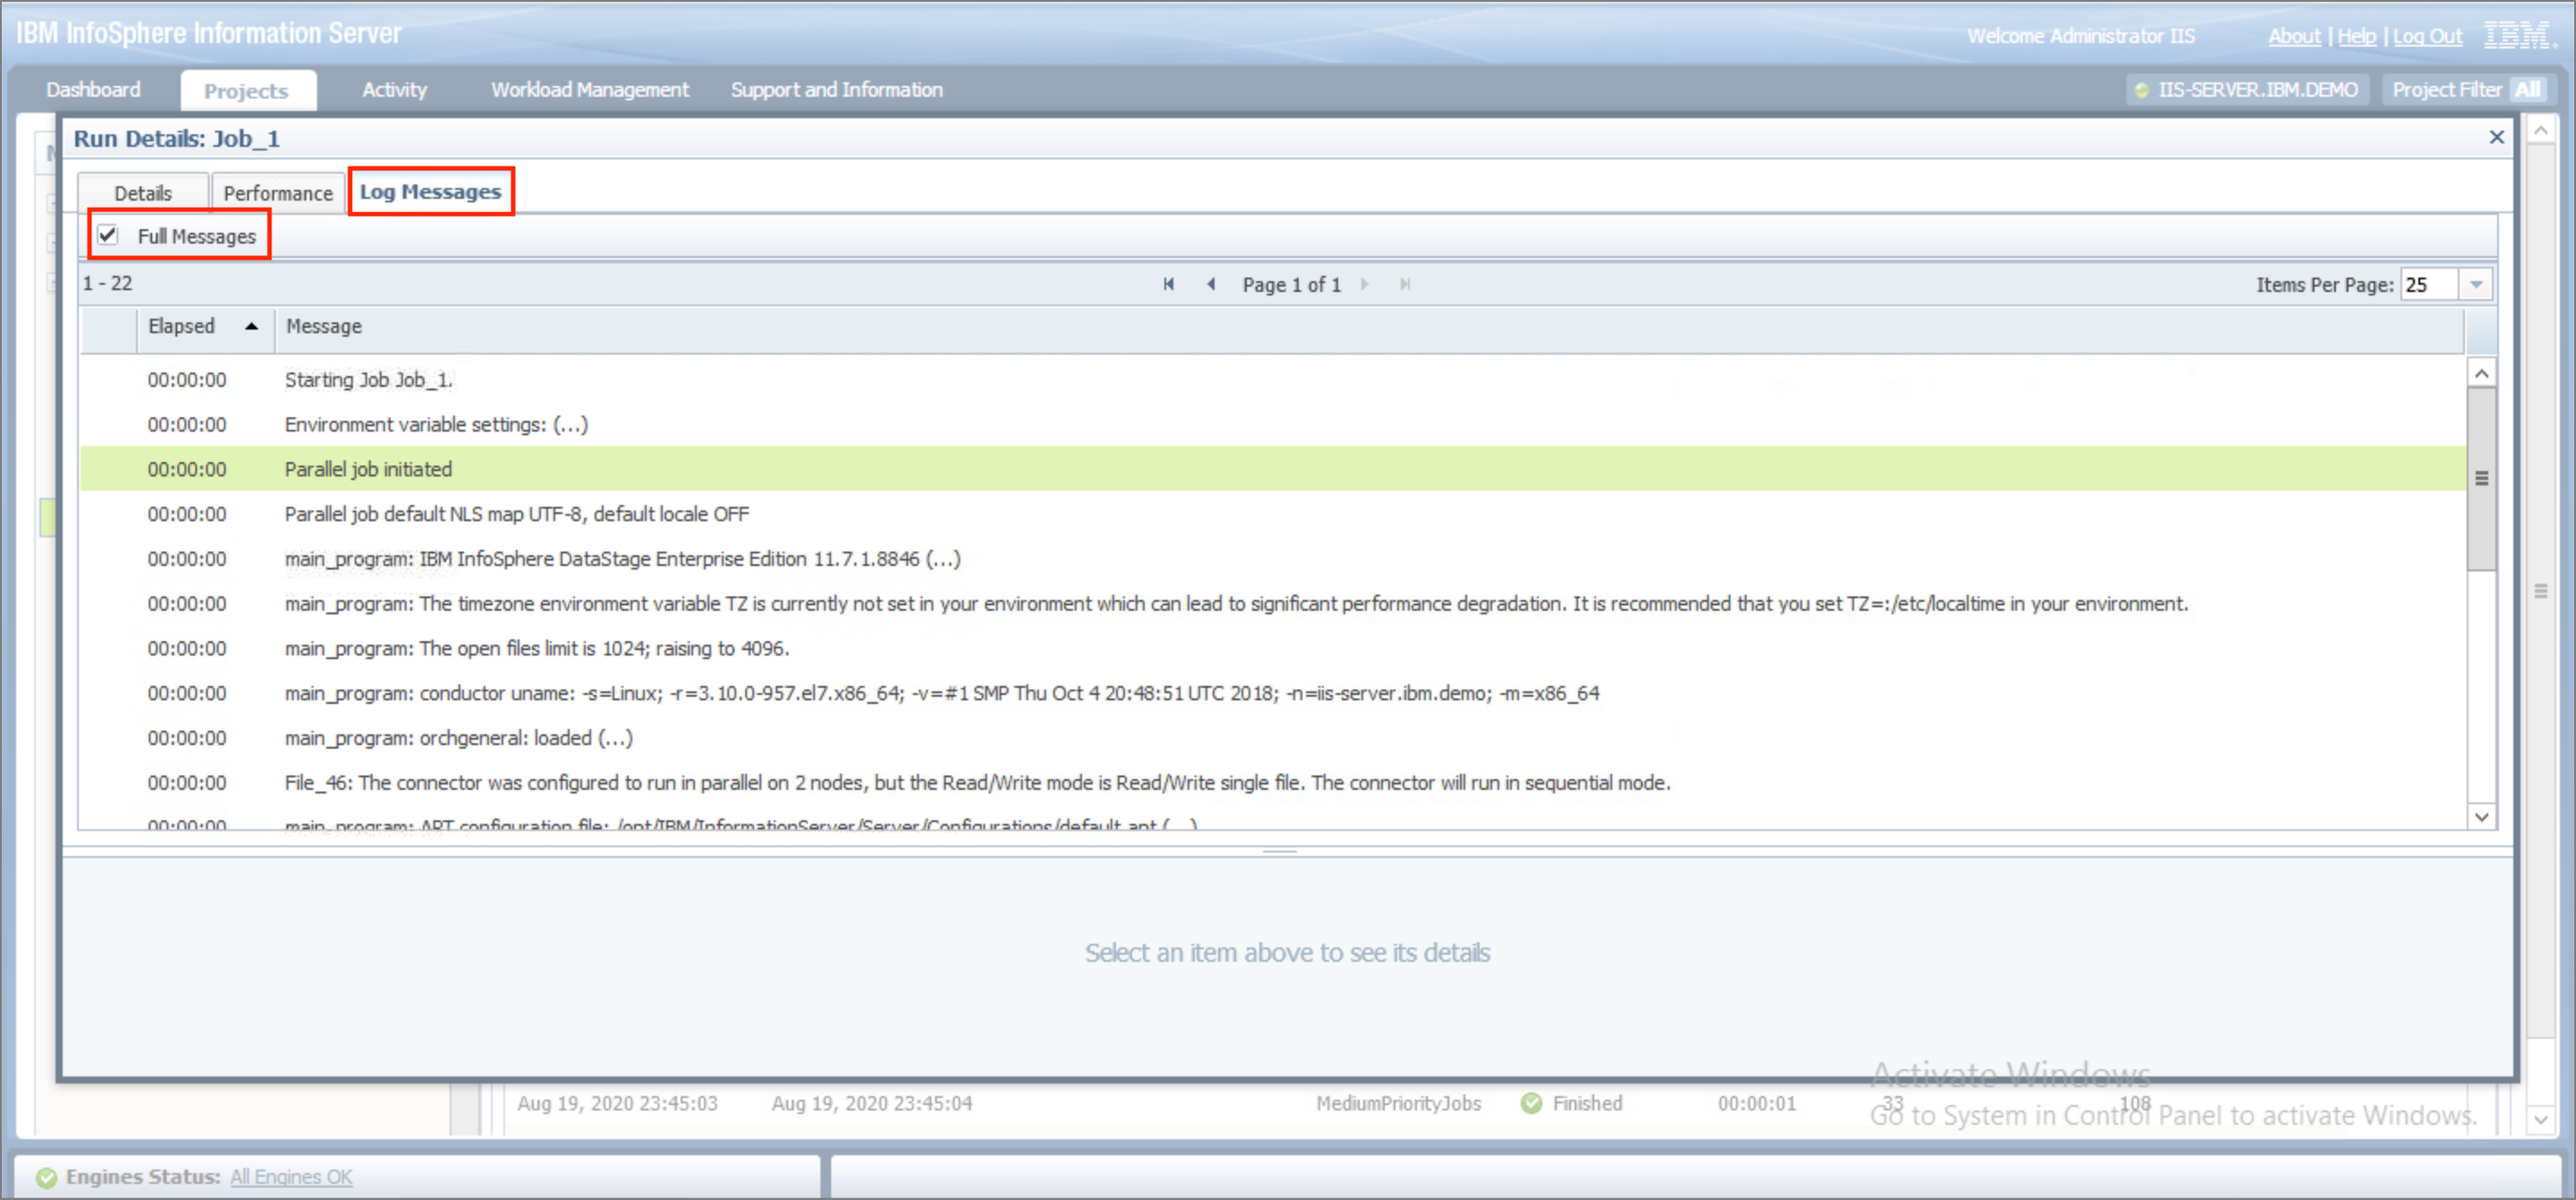
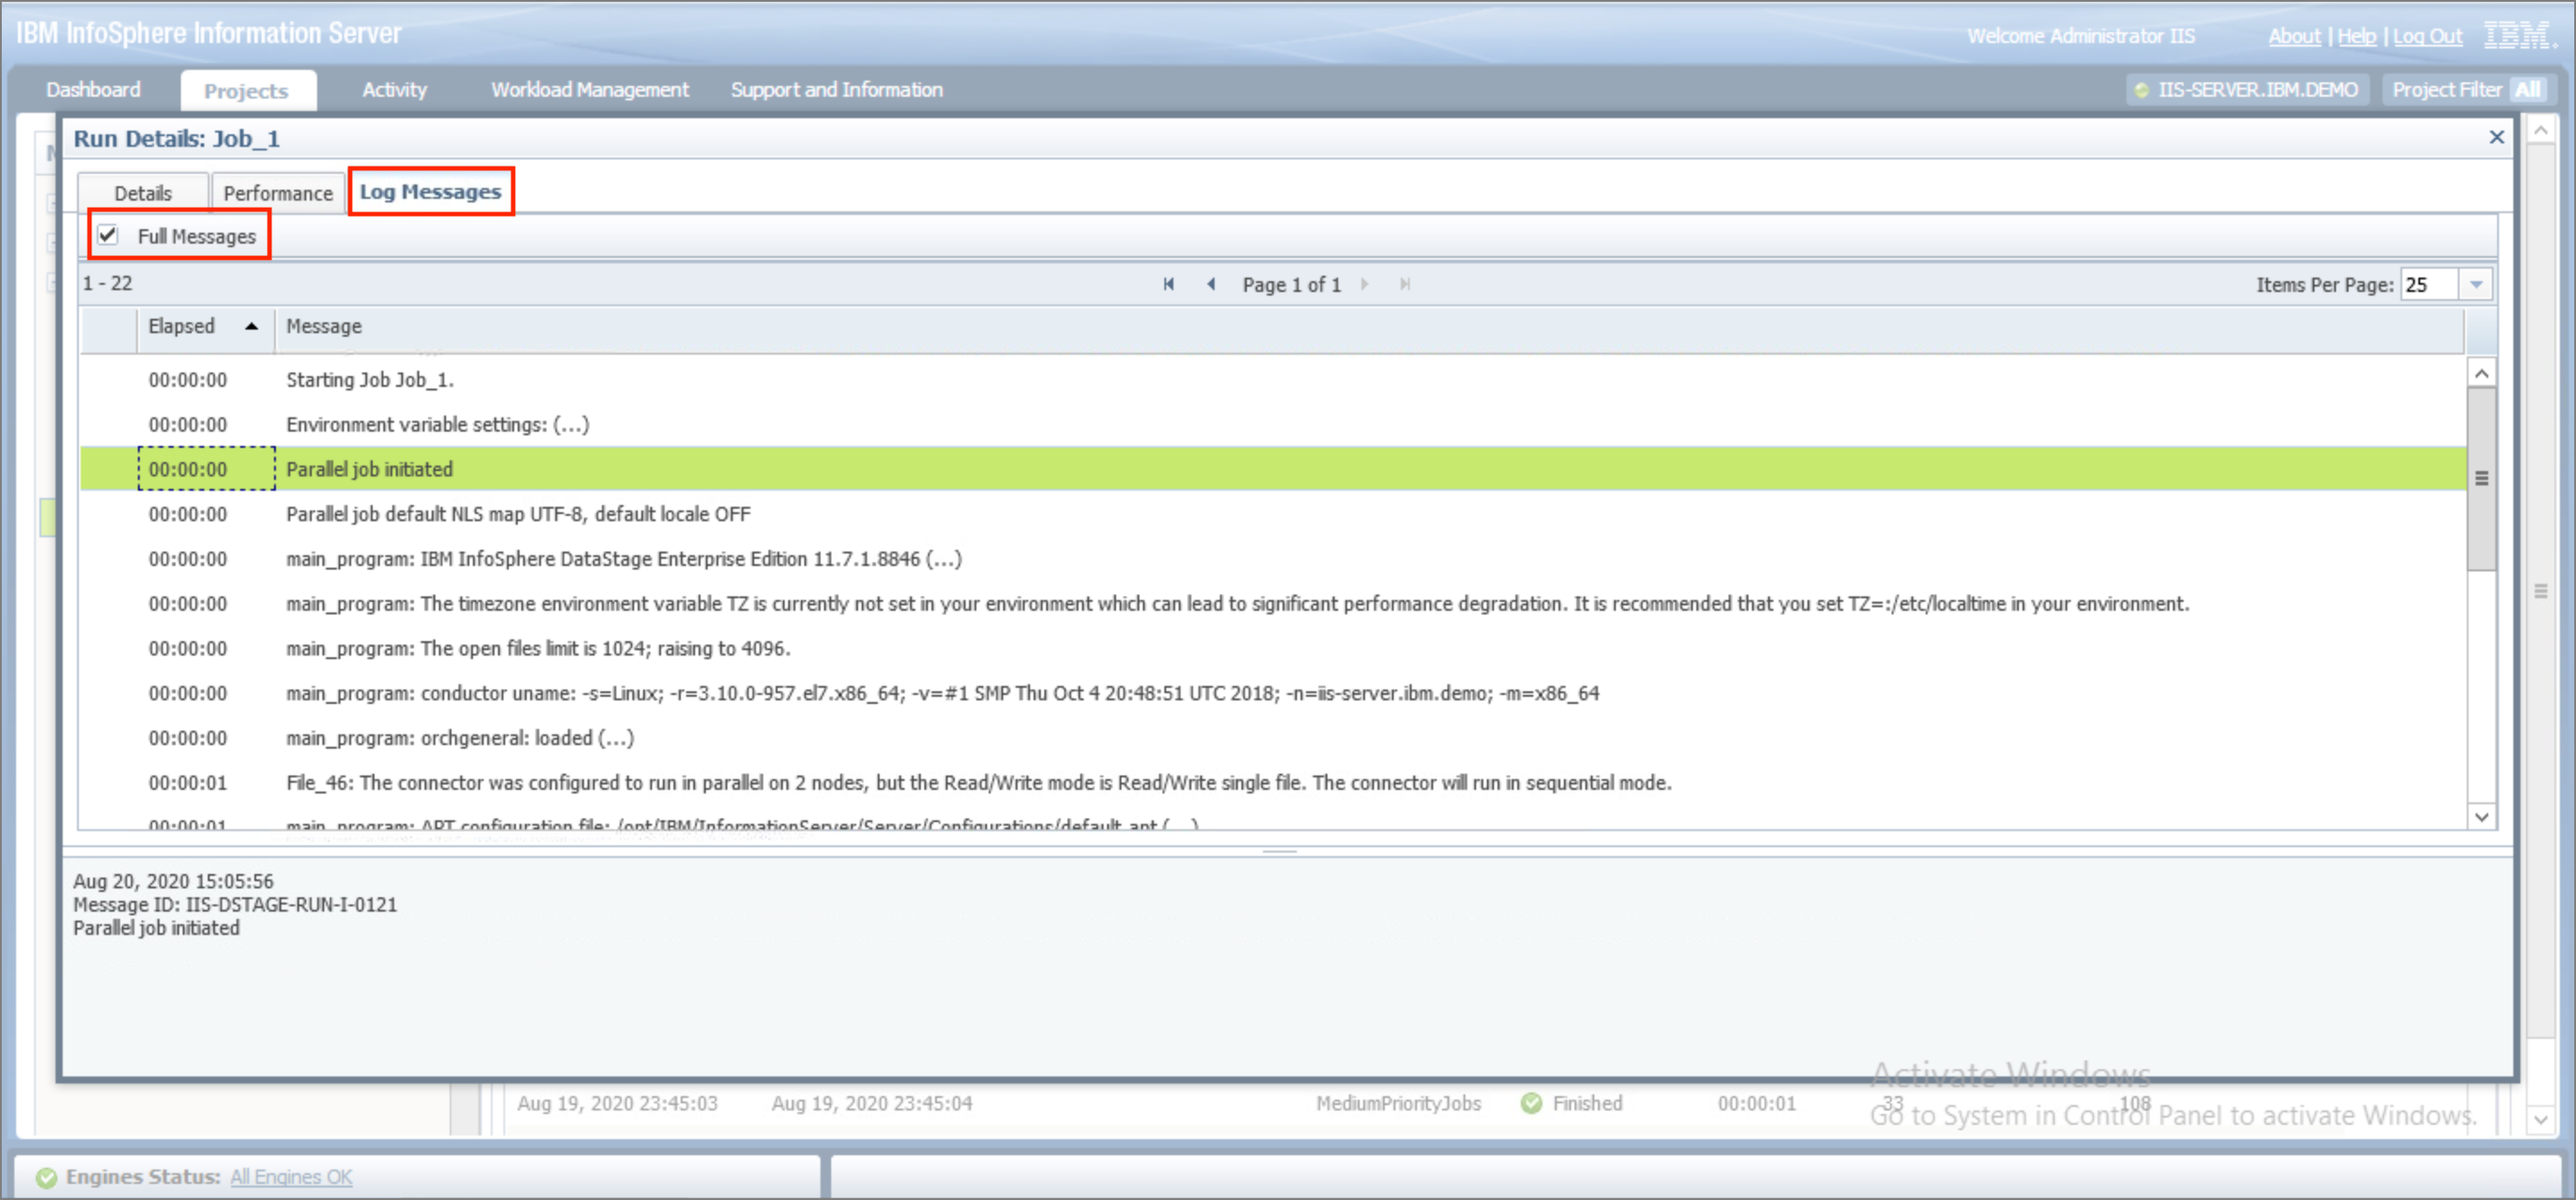
Update lab 1 and 3

diff --git a/workshop/lab-3/README.md b/workshop/lab-3/README.md
@@ -1,13 +1,23 @@
-# Lab 3: DataStage with Db2
+# Lab 3: DataStage with DB2 Warehouse
 
+DataStage Flow Designer enables users to create, edit, load, and run DataStage jobs which can be used to perform integration of data from various sourcs in order to glean meaningful and valuable information.
+
+The purpose of this lab is to design a DataStage job to satisfy the following problem statement:
+
+```ini
 As a data engineer, you have been asked by the Line of Business that you support, to produce a new data file that contains all employees whose total compensation is less than $50,000. The file must also contain the Department Name that the employee works in, and the mean average salary of all employees in that department who earn less than 50,000. In addition, the file must be sorted in descending order, based on the mean average salary amount. Finally, the application that will consume this file, expects the full name of the employee to be in one field, formatted as first, middle initial, last).
+```
 
-**Notes:**
+> **Note:** You can use the ***Peek*** stage to check intermediate results in the job as demonstrated in [Lab 1](/workshop/lab-1/README.md).
 
-> 1. The input tables: `EMP` (containing employee data) and `DEPT` (containing department data) are already loaded in Db2 Warehouse. The connection details are provided in these steps.
-> 2. Table `EMP` uses column `WORKDEPT` and table `DEPT` uses column `DEPTNO` to identify the department number.
-> 3. We'll create the output file in the following directory: `/opt/IBM/InformationServer/Server/Projects/Lab3/`.
-> 4. You can use the ***Peek*** stage to check intermediate results in the job as demonstrated in the previous lab.
+In this lab, you will learn:
+
+* How to create a job in DataStage.
+* How to load data from DB2 Warehouse into DataStage.
+* How to perform transformations such as modifying tables, joining tables, aggregating table data and sorting table data.
+* How to write tabular data from DataStage into a file.
+* How to run jobs.
+* How to view logs for jobs.
 
 This lab is comprised of the following steps:
 
@@ -32,6 +42,8 @@ The project takes a few minutes to be created and once ready, it will be visible
 ![Switch project](images/switch-project.png)
 
 ## 2. Add DB2 connection
+
+The input tables - `EMP` (containing employee data) and `DEPT` (containing department data) - are already loaded in Db2 Warehouse. Let's add this DB2 warehouse instance as a `Connection` in DataStage.
 
 * Click on the `Connections` tab and then click `+ Create` to add a new connection.
 
@@ -60,6 +72,37 @@ A tile for the new connection will now be displayed in the `Connections` tab.
 ![Create parallel job](images/create-parallel-job.png)
 
 A new tab with the name `Job_1*` opens up where you can now start designing the parallel job.
+
+The first step is to load the input tables `DEPT` and `EMP` into DataStage. 
+
+The `DEPT` table contains the following columns:
+
+| Column Name | Data Type | Nullable |
+| - | - | - |
+| DEPTNO | VARCHAR(3) | N |
+| DEPTNAME | VARCHAR(36) | N | 
+| MGRNO | CHAR(6) | Y |
+| ADMRDEPT | CHAR(3) | N |
+| LOCATION | CHAR(16) | Y |
+
+The `EMP` table contains the following columns:
+
+| Column Name | Data Type | Nullable |
+| - | - | - |
+| EMPNO | CHAR(6) | N |
+| FIRSTNME | VARCHAR(12) | N |
+| MIDINIT | CHAR(1) | Y |
+| LASTNAME | VARCHAR(15) | N |
+| WORKDEPT | VARCHAR(3) | Y |
+| PHONENO | CHAR(4) | Y |
+| HIREDATE | DATE(4) | Y |
+| JOB | CHAR(8) | Y |
+| EDLEVEL | SMALLINT | N |
+| SEX | CHAR(1) | Y |
+| BIRTHDATE | DATE(4) | Y |
+| SALARY | DECIMAL(9,2) | Y |
+| BONUS | DECIMAL(9,2) | Y |
+| COMM | DECIMAL(9,2) | Y |
 
 * First, drag a ***Connection*** connector to the canvas. In the modal that opens up, select the `DB2WH` connection that was created earlier and click `Next`.
 

diff --git a/workshop/lab-1/README.md b/workshop/lab-1/README.md
@@ -1,6 +1,18 @@
-# Lab 1
+# Lab 1: Introduction to DataStage
 
-The purpose of this lab is to familiarize ourselves with the DataStage Flow Designer. We will be creating a simple job which will read a table from a local file, remove the records that have null values and the records that are duplicates, and write the contents of the table back into another local file.
+DataStage Flow Designer enables users to create, edit, load, and run DataStage jobs which can be used to perform integration of data from various sourcs in order to glean meaningful and valuable information.
+
+The purpose of this lab is to familiarize ourselves with the DataStage Flow Designer and the Operations Console.
+
+In this lab, you will learn the following:
+
+* How to create a job in DataStage.
+* How to read tabular data from a file into DataStage.
+* How to perform transformations (such as filtering out records and removing duplicate values) on a table.
+* How to write tabular data from DataStage into a file.
+* How to run jobs.
+* How to view logs for jobs.
+* How to schedule jobs.
 
 This lab is comprised of the following steps:
 
@@ -156,7 +168,7 @@ If the compilation was not successful, you should see a red error icon and the m
 
 ![View job runs](images/view-job-runs.png)
 
-* Go to the `Log Messages` tab and check the `Full Messages` checkmark to see the complete log for the job run.
+* Go to the `Log Messages` tab and check the `Full Messages` checkmark to see the complete log for the job run. Clicking on an entry in the job log will display the log message details at the bottom.
 
 ![View job run log](images/view-job-run-log.png)
 
